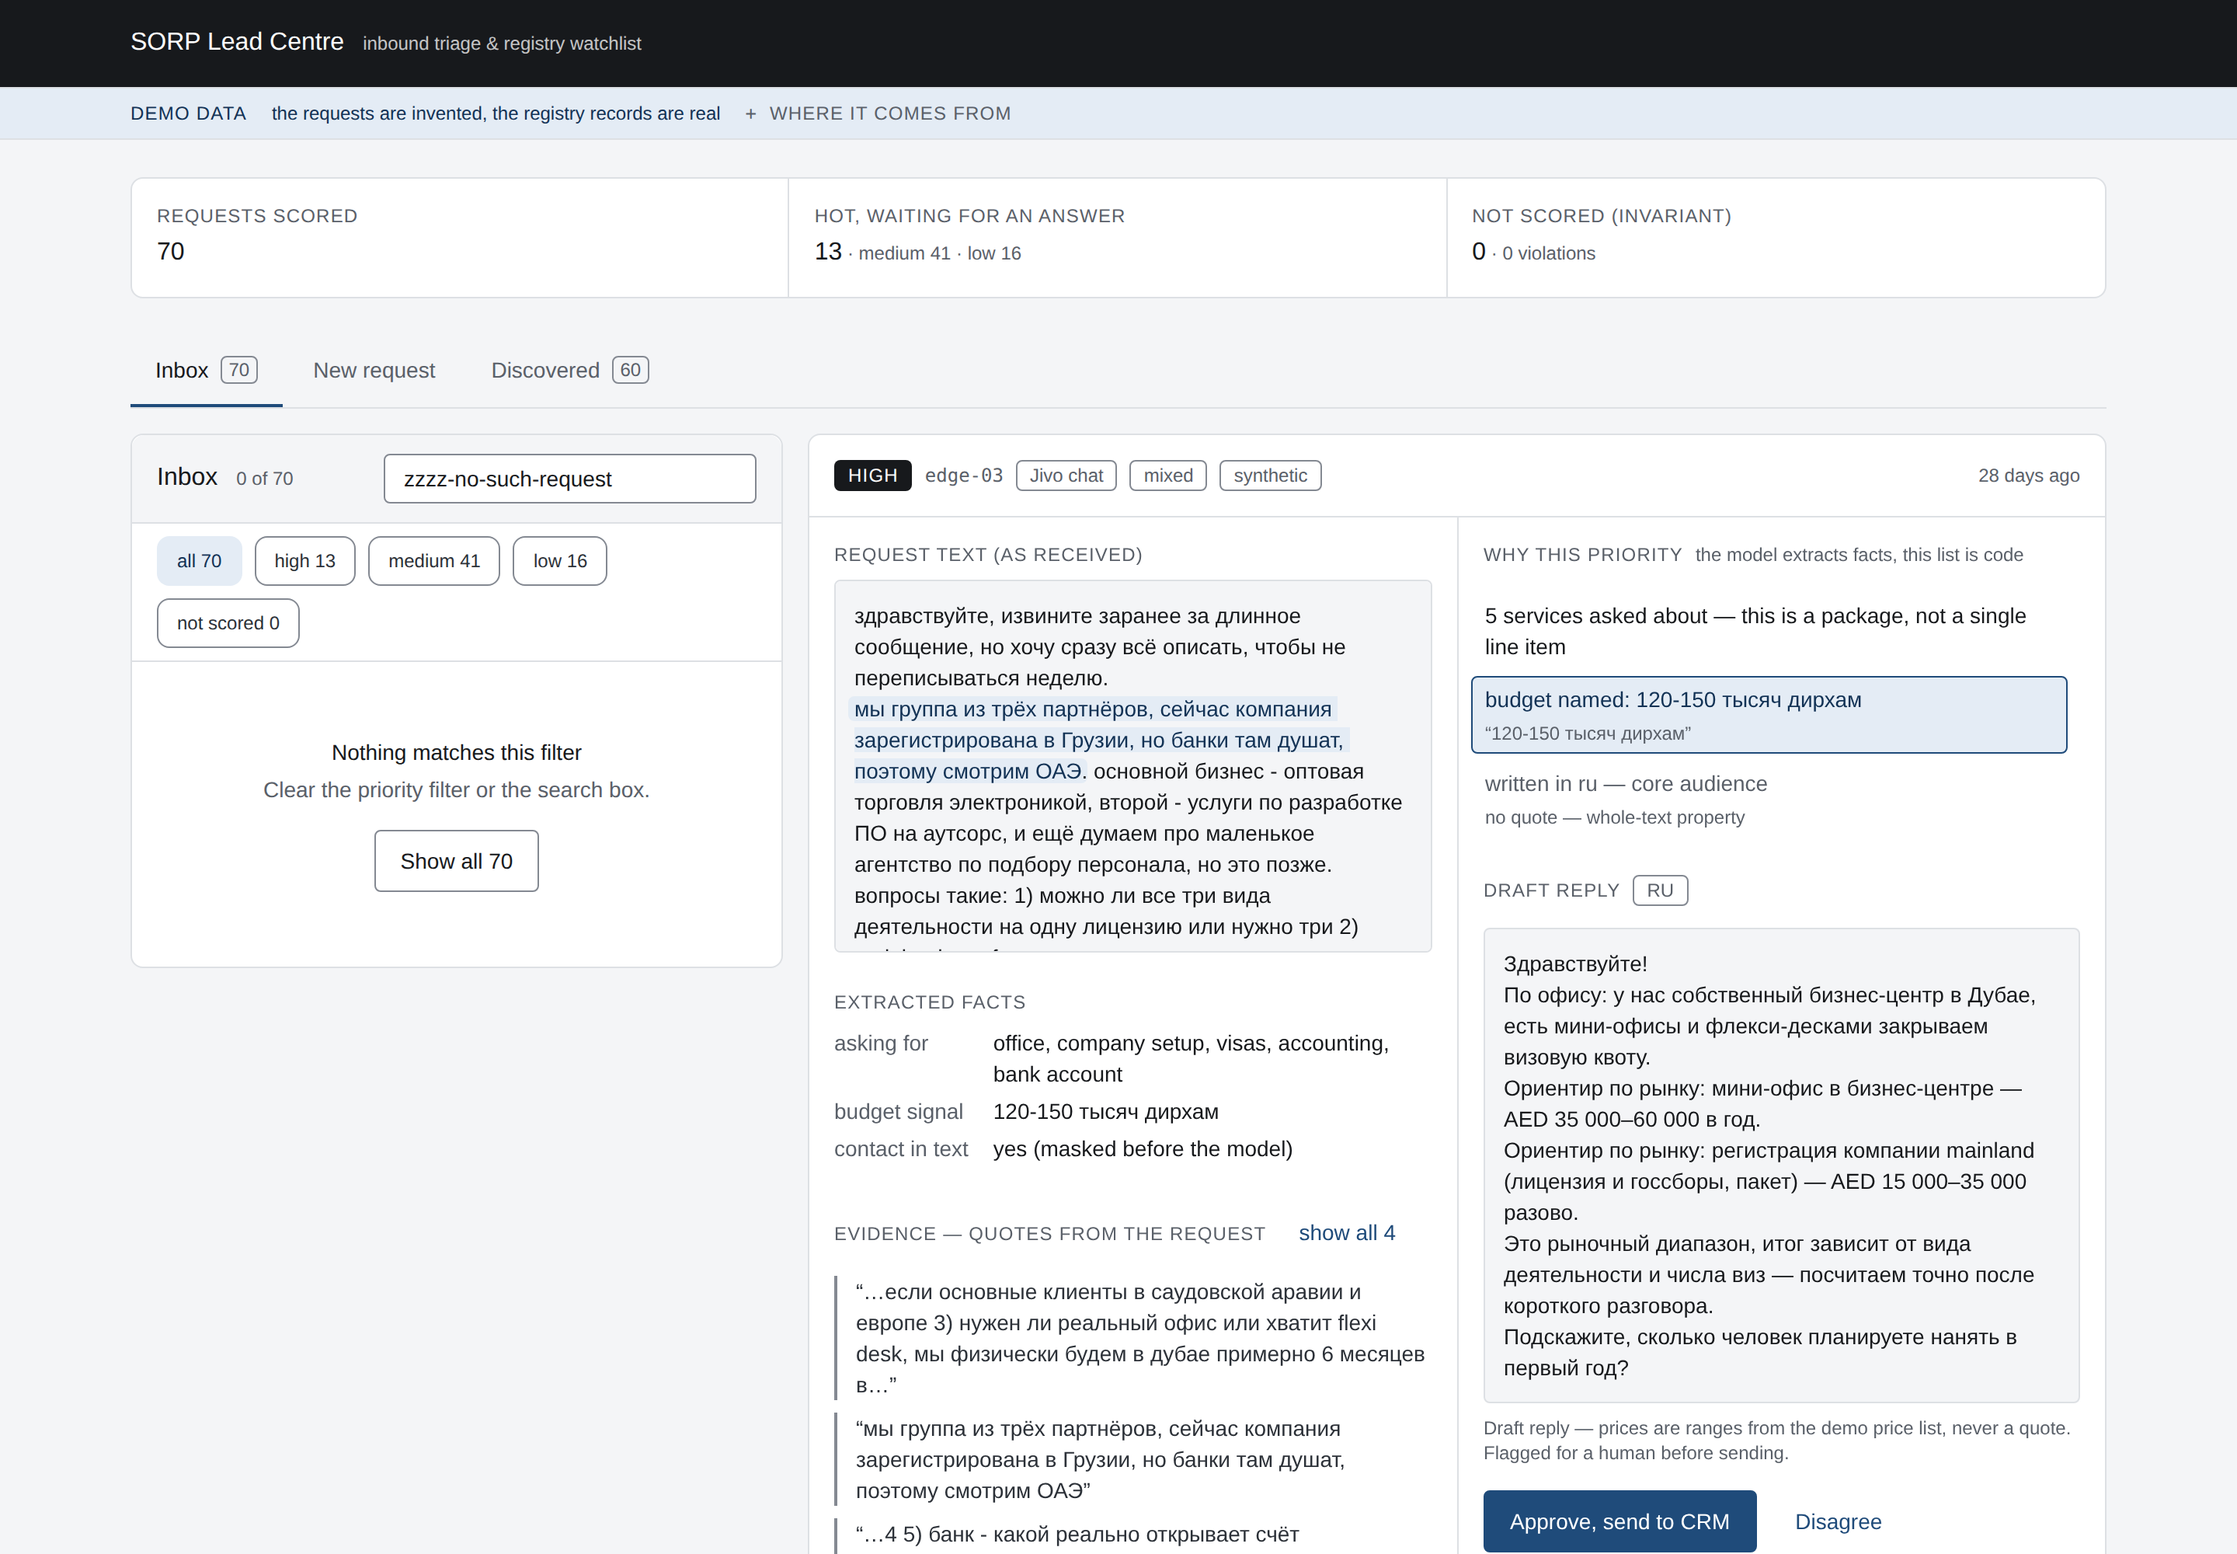
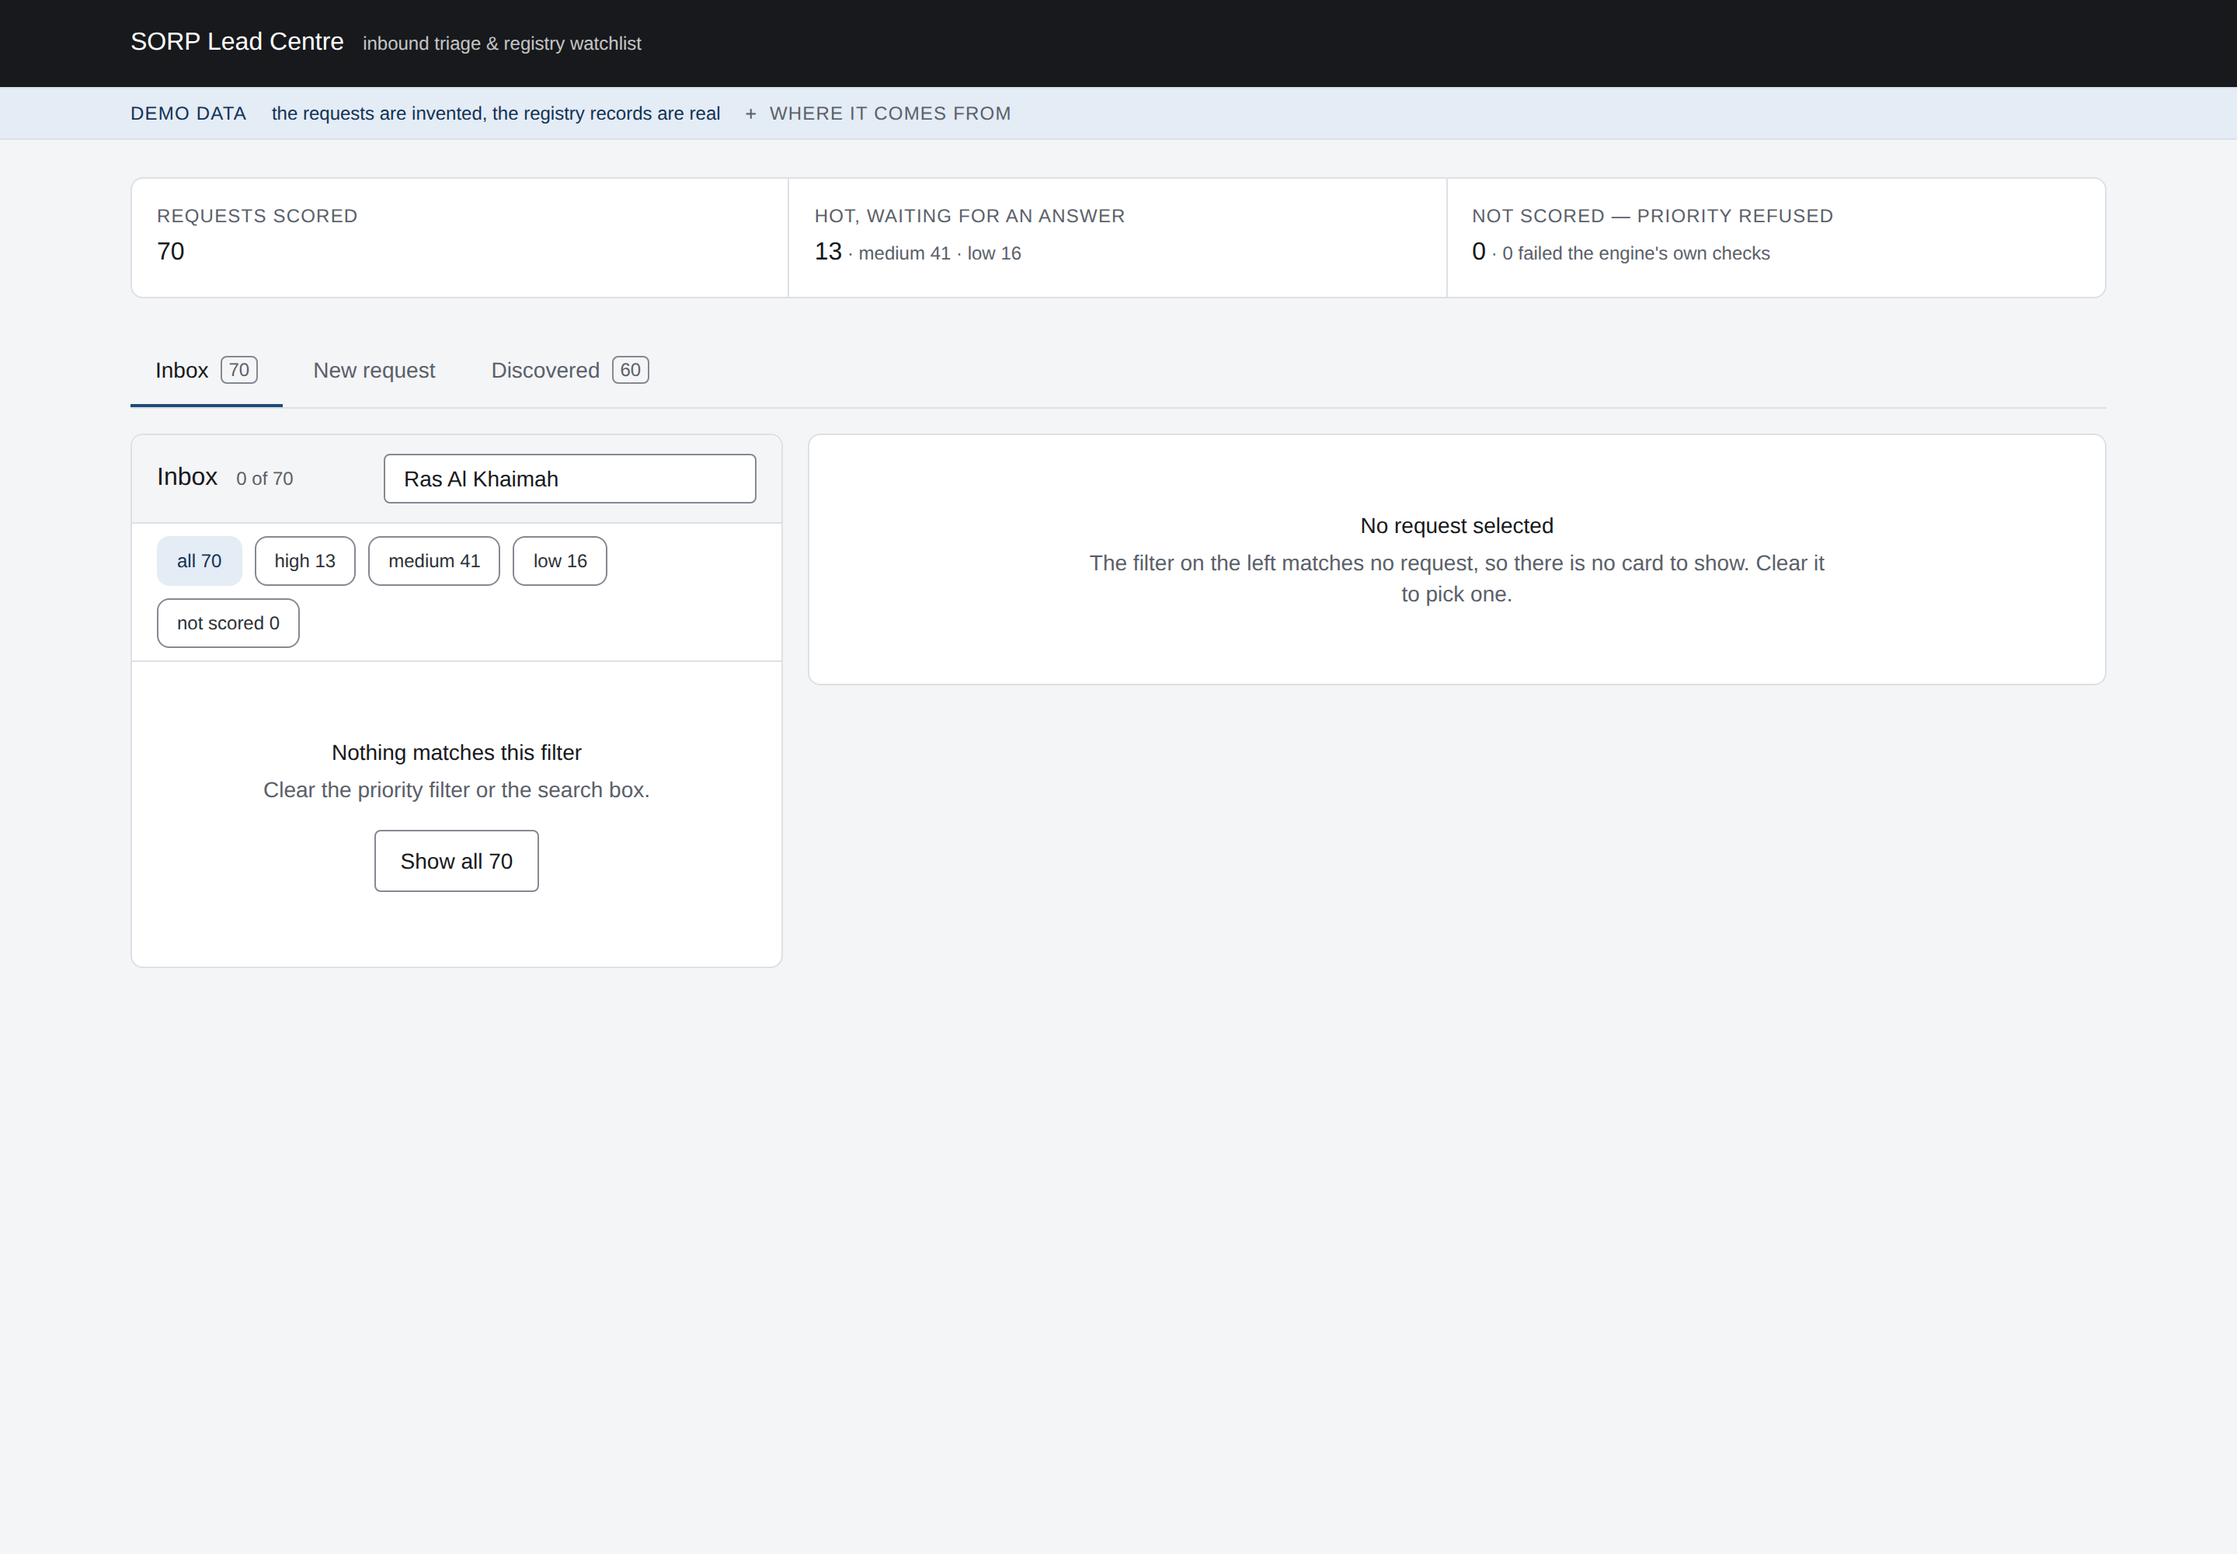
fix(web): из интерфейса убрано служебное, пустое состояние перестало противоречить себе
Осмотр семи кадров глазами дал пятнадцать находок; закрыты те, что заметны на показе.

ВКЛАДКА «НАЙДЕНО». В колонке доказательств стояли машинные пары «lei=… next_renewal_on=
2026-…», обрезанные посреди даты. Стало «Renewal due 4 Sep 2026 · LEI 984500D91E8NC3EF6836».
Дата разбирается вручную, без toLocaleDateString: тот зависит от локали машины, и одна
запись читалась бы разной датой у разных зрителей. Тип адреса «registrar» → «Registrar
address». Три исхода на месте: доказательств нет / есть, но поле не распознано / поля нет
в записи — проверено на единственной такой записи набора.

ПУСТОЕ СОСТОЯНИЕ. Слева «ничего не найдено», справа при этом была развёрнута полная
карточка: выбранное искалось в полном списке, а не в отфильтрованном, и переживало
опустевший фильтр. Экран противоречил сам себе. В строке поиска вместо «zzzz-no-such-request»
теперь «Ras Al Khaimah» — правдоподобный запрос, про который ИЗМЕРЕНО, что он не встречается
ни в одном из 70 обращений.

ОСТАЛЬНОЕ. Сырой JSON провайдера («402: insufficient credits for model claude-opus-5»)
ушёл под раскрытие — он публично сообщал, какой моделью мы пользуемся и что на ней кончился
баланс. Машинный идентификатор убран из шапки карточки (UUID моноширинным на самом видном
месте — это лог, а не карточка менеджера); он и так есть внизу в раскрытии. Русская
служебная подпись под английским письмом теперь помечена. Служебные объяснения переписаны
словами: «whole-text property» → «this reason is about the request as a whole»,
[…]

diff --git a/web/app/globals.css b/web/app/globals.css
@@ -420,10 +420,12 @@ table.grid th {
   border: 1px solid var(--outline-variant);
   border-radius: var(--r-small);
   padding: 12px;
-  /* 266 = 12 строк по 20 px + 24 padding + 2 border: обрез приходится между строками,
-     а не на половину букв (кадр 07-empty-state.png). Сам факт обрезки подписывает
-     LeadCard, измерив её. */
-  max-height: 266px;
+  /* Обрез приходится ровно между строками, а не на половину букв. Считать надо не по
+     content-box: в прокручиваемой коробке текст виден и в нижнем padding, режет её
+     padding-box. ИЗМЕРЕНО в браузере: видимая высота текста = clientHeight - padding-top,
+     поэтому 12 строк по 20 px + 12 padding-top + 2 border = 254, и тринадцатая строка
+     не показывается наполовину. Сам факт обрезки подписывает LeadCard, измерив её. */
+  max-height: 254px;
   overflow-y: auto;
 }
 /* Подсветка цитаты, на которой построена причина. */
@@ -631,14 +633,27 @@ table.grid { width: 100%; border-collapse: collapse; }
    просрочки, «evidence» — сам идентификатор записи (LEI, ровно 20 символов) и дату, ради
    которой строка тут, «flag» — подпись типа адреса словами, а не машинную метку.
    min-width 1180 -> 1252 (ИЗМЕРЕНО в браузере на 60 строках набора: самой широкой
-   ячейке evidence нужно 378 px, address type — 143 px). */
-table.grid-fixed { table-layout: fixed; min-width: 1252px; }
+   ячейке evidence нужно 378 px, address type — 143 px).
+   После правки рубрики районы Дубая стали целевыми, и в колонке города появились
+   «Nad Al Sheba» и «Dubai Silicon Oasis». Обрезанные до «Nad Al S…», они противоречили
+   строке: приоритет HIGH стоит ровно потому, что это Дубай, а прочитать это было нельзя.
+
+   ИЗМЕРЕНО 2026-09-11 в браузере при ширине окна 1440: контейнер таблицы даёт 1270 px,
+   и это потолок — что шире, то режется краем экрана, а не многоточием. Потребность
+   колонок: приоритет 89, компания 505 (медиана 228), тип адреса 143, город 223
+   («Dubai Silicon Oasis» — 169), причина 687 (медиана 251), доказательства 406.
+   Сумма потребностей вдвое больше потолка, поэтому режется не всё подряд, а выбранное:
+   причина и номер LEI влезают целиком на типичной строке, перерасход забран у названий
+   компаний — они режутся и так (26 строк из 60), и целиком лежат под наведением.
+   Строки с двумя причинами сразу («просрочка + город вне списка», 687 px) не влезут ни
+   при какой раскладке; там читается первая причина, вторая — под наведением. */
+table.grid-fixed { table-layout: fixed; min-width: 1270px; }
 table.grid-fixed col.c-priority { width: 88px; }
-table.grid-fixed col.c-company { width: 240px; }
+table.grid-fixed col.c-company { width: 208px; }
 table.grid-fixed col.c-flag { width: 148px; }
-table.grid-fixed col.c-city { width: 104px; }
-table.grid-fixed col.c-why { width: 280px; }
-table.grid-fixed col.c-evidence { width: 392px; }
+table.grid-fixed col.c-city { width: 168px; }
+table.grid-fixed col.c-why { width: 252px; }
+table.grid-fixed col.c-evidence { width: 406px; }
 table.grid th {
   text-align: start;
   padding: 16px;

diff --git a/web/scripts/shots.py b/web/scripts/shots.py
@@ -87,7 +87,10 @@ def main() -> int:
                                page.locator(".panel").nth(1)))
 
         if want("07"):
-            page.locator("input.search-box").fill("zzzz-no-such-request")
+            # Правдоподобный запрос, а не «zzzz»: пустое состояние показывают менеджеру, и в
+            # строке поиска должно стоять то, что он мог бы набрать. ИЗМЕРЕНО: «Ras Al Khaimah»
+            # не встречается ни в одном из 70 обращений, то есть состояние честно пустое.
+            page.locator("input.search-box").fill("Ras Al Khaimah")
             page.wait_for_timeout(300)
             page.locator("input.search-box").blur()
             page.wait_for_timeout(150)

diff --git a/docs/loom_script.md b/docs/loom_script.md
@@ -96,8 +96,10 @@ SORP. Ничего никуда не уходит: кнопку «Approve, send 
 9 369 компаний, у 3 940 просрочена регистрация — это числа вчерашней выгрузки, реестр живой
 и они каждый день другие. На вкладке — 60 таких компаний. Просрочка —
 датированный и доказуемый повод для разговора: в строке видно приоритет, название, тип
-адреса, город, на сколько дней просрочено, и в доказательствах — номер LEI, номер лицензии
-и дата, до которой регистрацию нужно было продлить.
+адреса, город, на сколько дней просрочено, и в доказательствах — дата, до которой
+регистрацию нужно было продлить, и номер LEI, по которому запись находят в реестре.
+(Номер лицензии там же, но в строку не влезает — он под наведением; если спросят, скажите
+прямо, а не делайте вид, что его нет.)
 Важно, чего здесь нет: телефонов, почт и кнопки «написать». Это список наблюдения для
 менеджера, а не база для рассылки, и так написано прямо на вкладке. Источник — сменный:
 это адаптер, на его место встаёт платный провайдер или выгрузка клиента, движок при этом
